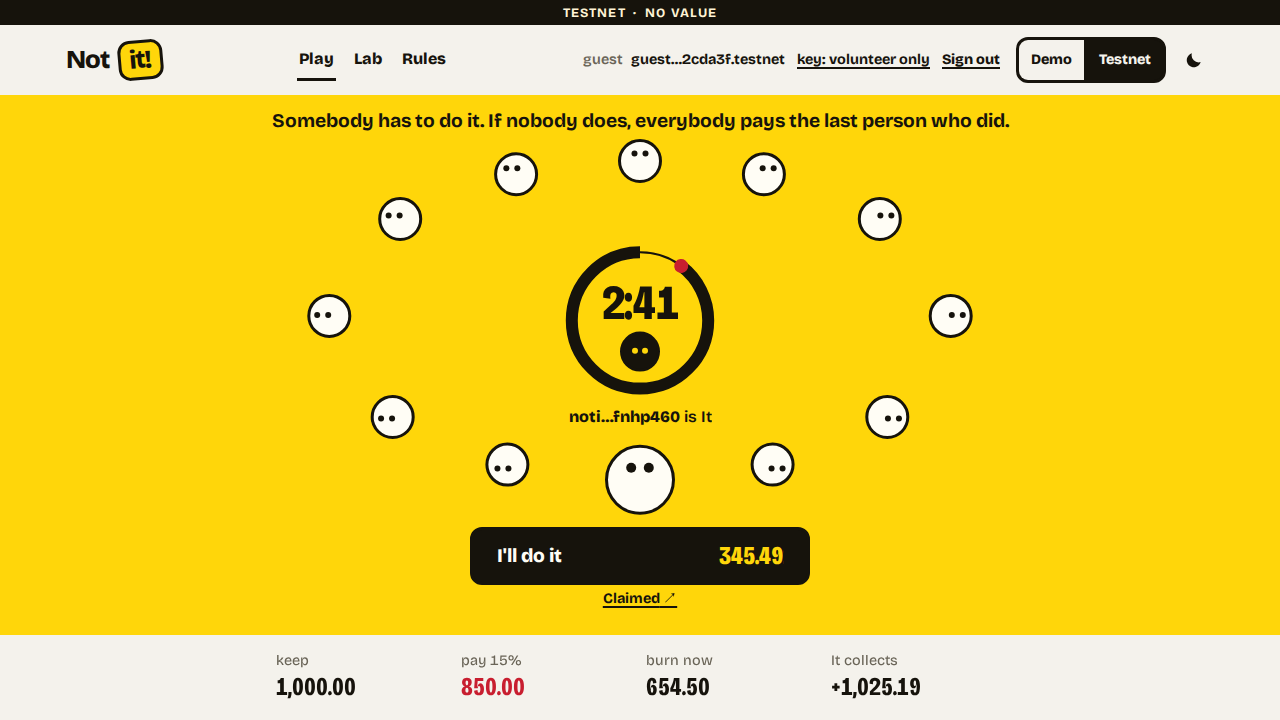
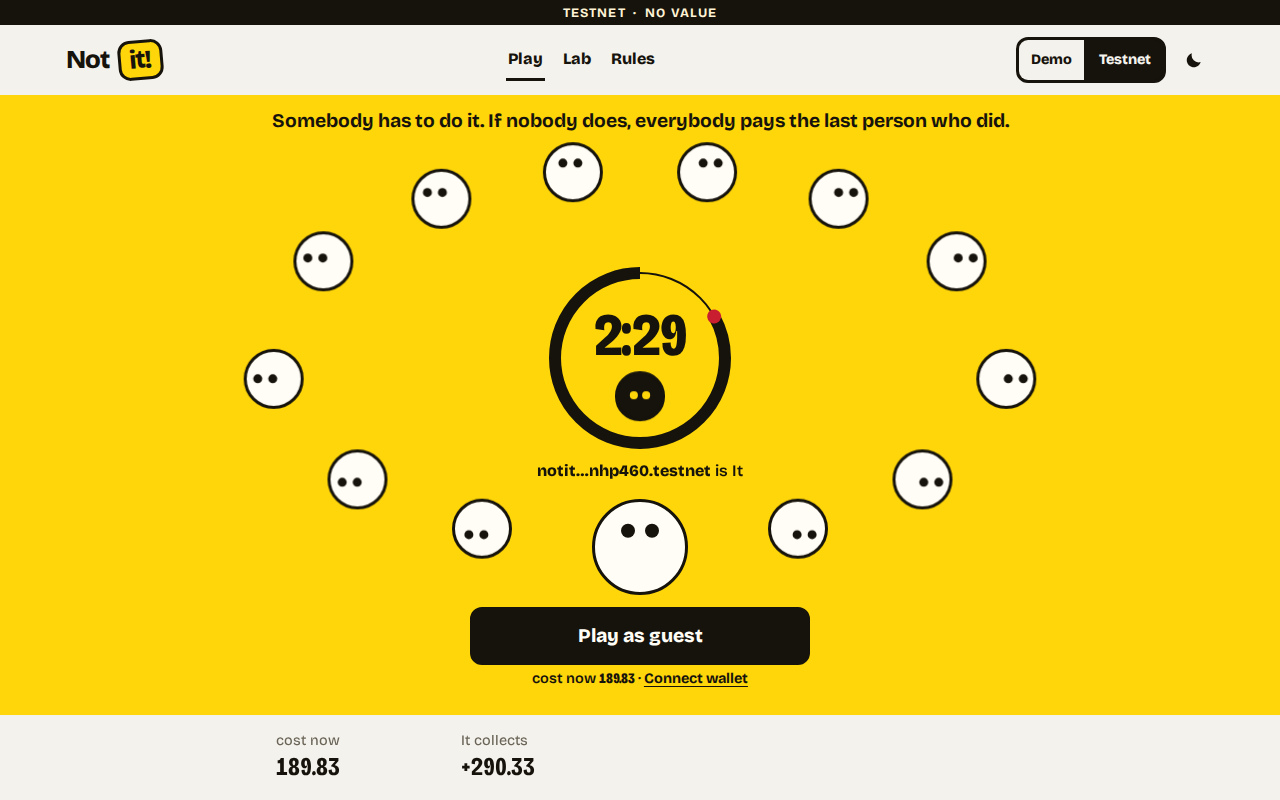
Final pass: say who did the reviews, correct the write-up's numbers, show the cost to visitors
Claude-Session: https://claude.ai/code/session_01VbKCMfDAzkPAio4xTphiFG

diff --git a/web/src/components/play/Scene.tsx b/web/src/components/play/Scene.tsx
@@ -323,7 +323,7 @@ function spokenStatus(snap: GameSnapshot, live: Live, scale: number): string {
 
 
 /** Testnet with nobody signed in: one click to play as a guest, or a wallet. */
-function SignIn({ chain, claimAmount, onUseDemo }: { chain: ChainUi; claimAmount: bigint; onUseDemo(): void }) {
+function SignIn({ chain, claimAmount, cost, onUseDemo }: { chain: ChainUi; claimAmount: bigint; cost: string | null; onUseDemo(): void }) {
   const { session, state } = chain;
   const { guest, wallet, restoring } = state;
   const running = guest.status === 'running';
@@ -384,7 +384,15 @@ function SignIn({ chain, claimAmount, onUseDemo }: { chain: ChainUi; claimAmount
             {wallet.error} {connect('Try again')}
           </span>
         ) : (
-          connect(wallet.busy ? 'Opening wallets…' : 'Connect wallet')
+          // Before anyone signs in: what volunteering costs right now, and the other way in.
+          <>
+            {cost !== null && (
+              <span className="act__now">
+                cost now <Digits text={cost} /> ·{' '}
+              </span>
+            )}
+            {connect(wallet.busy ? 'Opening wallets…' : 'Connect wallet')}
+          </>
         )}
       </div>
     </>
@@ -457,7 +465,7 @@ function Act({ game, snap, chain, flash, scale, onUseDemo }: { game: Game; snap:
         {spoken}
       </p>
       {signUp && chain ? (
-        <SignIn chain={chain} claimAmount={config.claimAmount} onUseDemo={onUseDemo} />
+        <SignIn chain={chain} claimAmount={config.claimAmount} cost={!s.saved && s.roundSupply > 0n ? amount(live.cost) : null} onUseDemo={onUseDemo} />
       ) : (
         <>
           <button
@@ -834,7 +842,7 @@ export function Figures({ snap, flash }: { snap: GameSnapshot; flash: RoundClose
   // What the round that just closed did to this balance: a cut, or a payment to It.
   const delta = paid && flash.balanceBefore !== null && flash.balanceAfter !== null ? flash.balanceAfter - flash.balanceBefore : 0n;
 
-  const figs: Fig[] = [
+  const withBalance: Fig[] = [
     {
       key: 'keep',
       label: 'keep',
@@ -873,6 +881,18 @@ export function Figures({ snap, flash }: { snap: GameSnapshot; flash: RoundClose
       title: `You do it now: ${of} after burning the cost`,
     },
   ];
+  // With nothing held yet (signed out, or before a claim) the row leads with the number the whole
+  // game turns on: what it costs to volunteer right now, from the same tick as the button's.
+  const figs: Fig[] = hasTokens
+    ? withBalance
+    : [
+        {
+          key: 'cost',
+          label: 'cost now',
+          value: open ? <Digits text={amount(live.cost)} /> : '—',
+          title: 'What volunteering costs right now; it falls until the round ends',
+        },
+      ];
   if (s.it && s.it !== me) {
     const gain = itAccount ? itCollects(s.totalSupply, itAccount.balance, config.cutPpm) : 0n;
     figs.push(
@@ -888,7 +908,7 @@ export function Figures({ snap, flash }: { snap: GameSnapshot; flash: RoundClose
   }
 
   return (
-    <dl className="figs" aria-label={`What each ending of this round does to ${of}`}>
+    <dl className="figs" aria-label={hasTokens ? `What each ending of this round does to ${of}` : 'What volunteering costs right now, and what It collects if nobody does'}>
       {figs.map((f) => (
         <div key={f.key} className={cls('figs__item', f.tone && `figs__item--${f.tone}`)} title={f.title}>
           <dt>{f.label}</dt>

diff --git a/web/index.html b/web/index.html
@@ -8,13 +8,13 @@
     <title>Not It — somebody has to do it</title>
     <meta
       name="description"
-      content="Not It ($NOTIT): a volunteer's-dilemma token on NEAR testnet. Somebody has to do it. If nobody does, everybody pays the last person who did. Test tokens, no value."
+      content="Somebody has to do it. If nobody does, everybody pays the last person who did. A memecoin on NEAR testnet whose only mechanic is a recurring auction for one seat."
     />
     <link rel="canonical" href="https://arshiaxbt.github.io/notit/" />
     <meta property="og:type" content="website" />
     <meta property="og:site_name" content="Not It" />
     <meta property="og:title" content="Not It — somebody has to do it" />
-    <meta property="og:description" content="If nobody does, everybody pays the last person who did. A volunteer's-dilemma token on NEAR testnet. Test tokens, no value." />
+    <meta property="og:description" content="Somebody has to do it. If nobody does, everybody pays the last person who did. A memecoin on NEAR testnet whose only mechanic is a recurring auction for one seat." />
     <meta property="og:url" content="https://arshiaxbt.github.io/notit/" />
     <meta property="og:image" content="https://arshiaxbt.github.io/notit/og.png" />
     <meta property="og:image:width" content="1200" />
@@ -23,7 +23,7 @@
     <meta name="twitter:card" content="summary_large_image" />
     <meta name="twitter:creator" content="@0xarshia" />
     <meta name="twitter:title" content="Not It — somebody has to do it" />
-    <meta name="twitter:description" content="If nobody does, everybody pays the last person who did. A volunteer's-dilemma token on NEAR testnet. Test tokens, no value." />
+    <meta name="twitter:description" content="Somebody has to do it. If nobody does, everybody pays the last person who did. A memecoin on NEAR testnet whose only mechanic is a recurring auction for one seat." />
     <meta name="twitter:image" content="https://arshiaxbt.github.io/notit/og.png" />
     <link rel="icon" type="image/svg+xml" href="./favicon.svg" />
     <link rel="apple-touch-icon" href="./apple-touch-icon.png" />

diff --git a/web/src/components/play/Rounds.tsx b/web/src/components/play/Rounds.tsx
@@ -74,6 +74,7 @@ export function RoundStrip({ snap }: { snap: GameSnapshot }) {
       title={<RoundLabel round={s.round} />}
       aside={
         <ul className="legend" aria-label="Legend">
+          <li className="legend__scope">last {cells.length} rounds</li>
           <li>
             <span className="legend__swatch legend__swatch--saved" aria-hidden="true" /> Saved <b>{saved}</b>
           </li>

diff --git a/web/src/styles/scene.css b/web/src/styles/scene.css
@@ -445,6 +445,10 @@
   text-align: center;
   translate: -50% 0;
 }
+.act__now .digits {
+  font-weight: 800;
+  font-stretch: 75%;
+}
 .act__say {
   display: block;
   text-wrap: balance;

diff --git a/web/src/styles/app.css b/web/src/styles/app.css
@@ -1781,3 +1781,6 @@
   min-width: 0;
   max-width: 100%;
 }
+.legend__scope {
+  color: var(--muted);
+}

diff --git a/contract/src/fuzz.rs b/contract/src/fuzz.rs
@@ -1,4 +1,4 @@
-//! Randomised invariant test, written by the independent reviewer during the pre-lock audit.
+//! Randomised invariant test, written by a separate AI review session during the pre-lock code review.
 //!
 //! Random legal operations (claim, volunteer, transfer, transfer-and-call with mocked
 //! receiver replies, forced unregister, register, poke) at random times, over several
@@ -318,7 +318,7 @@ fn random_operations_keep_the_invariants() {
         (150_000, 10u128.pow(31), 10, 1, 1),
         (1, 7, 100_000, 1, 999_999),
     ];
-    // Defaults keep `cargo test` quick. The pre-lock audit ran
+    // Defaults keep `cargo test` quick. The pre-lock review ran
     // NOTIT_FUZZ_SEEDS=40 NOTIT_FUZZ_STEPS=700 (and longer) over the same parameter sets.
     let seeds: u64 = std::env::var("NOTIT_FUZZ_SEEDS")
         .ok()

diff --git a/README.md b/README.md
@@ -2,7 +2,7 @@
 
 [![CI](https://github.com/arshiaxbt/notit/actions/workflows/ci.yml/badge.svg)](https://github.com/arshiaxbt/notit/actions/workflows/ci.yml)
 
-A memecoin whose only mechanic is a volunteer's dilemma with real stakes, on NEAR.
+A memecoin whose only mechanic is a recurring auction for one seat, "It": a volunteer's dilemma for large holders, a last-mover contest for everyone else. On NEAR testnet.
 
 **Somebody has to do it. If nobody does, everybody pays the last person who did.**
 
@@ -15,7 +15,7 @@ A 70-second recording of one real session on testnet (claim, volunteer, a round 
 | Hackathon | Built at NEAR HACKATHON (development phase 1–14 November 2026). Track: `memecoins` (Memecoins With Mechanics) |
 | Live demo | https://arshiaxbt.github.io/notit/ |
 | Contracts (NEAR testnet) | `notit-play.testnet` (3-minute rounds), `notit-live.testnet` (1-hour rounds). Both locked: no access keys |
-| Status | Testnet only. Test tokens with no value. Not audited |
+| Status | Testnet only. Test tokens with no value. No human or professional audit (see "How correctness is checked") |
 
 ## What it is
 
@@ -37,9 +37,9 @@ Not It is built so that every event is a real transfer of ownership. A save move
 
 - **Rules nobody can change.** A NEAR account with no access keys cannot be redeployed or administered. Both deployments were locked by deleting every key (`scripts/lock.sh`); step 4 below shows how to check.
 - **Standards.** NEP-141 token, NEP-145 storage management, NEP-148 metadata, NEP-297 events, so wallets and explorers read it without custom code.
-- **Cheap, fast finality.** A round is decided in its last seconds; one-second blocks and negligible fees make a three-minute round playable.
+- **Cheap, fast finality.** A round is decided in its last seconds; blocks of about 0.6 seconds and negligible fees make a three-minute round playable.
 - **One-click play with a key that can only volunteer.** The web app creates a faucet-funded testnet account in the browser, claims, and then replaces the account's full-access key with function-call access keys limited to `volunteer` and `poke` on the two game contracts (one transaction: add two keys, delete the full one). `volunteer` takes no deposit precisely so that such a key can play. Wallet login uses NEAR Connect.
-- **Named accounts.** It, the volunteers and the bots are readable account names on the hero wall.
+- **Named accounts.** It, the volunteers and the bots are readable account names in the volunteer table.
 - **NEAR Sandbox** runs the compiled contract in the integration test.
 
 | NEAR feature | Where it is used | How to check |
@@ -96,7 +96,7 @@ You should see `pass 52` and `fail 0`.
 
 ### 3. Run the contract tests
 
-Needs Rust (`rustup`; the pinned toolchain in `contract/rust-toolchain.toml` installs itself) and `cargo-near`. A cold build takes about 5 minutes and about 1 GB of disk:
+Needs Rust (`rustup`; the pinned toolchain in `contract/rust-toolchain.toml` installs itself) and `cargo-near`. A cold build takes about 5 minutes and about 1.6 GB of disk:
 
 ```sh
 curl --proto '=https' --tlsv1.2 -LsSf https://github.com/near/cargo-near/releases/download/cargo-near-v0.23.0/cargo-near-installer.sh | sh
@@ -107,6 +107,8 @@ cargo test
 You should see `test result: ok. 43 passed` for the unit tests (they include `contract_matches_the_typescript_engine_on_generated_scenarios` and `random_operations_keep_the_invariants`, which take a minute or two each), and then `test result: ok. 1 passed` for the integration test `full_game_loop_on_sandbox`. The integration test builds the WebAssembly contract and plays a full game on a local NEAR Sandbox node (first run downloads the sandbox binary).
 
 ### 4. Read the live contract
+
+From the repository root (`cd ..` if you are still in `contract/`).
 
 No account needed:
 
@@ -142,7 +144,7 @@ You should see `"link":"https://github.com/arshiaxbt/notit"`.
 
 Open https://arshiaxbt.github.io/notit/.
 
-1. The page opens in Testnet mode on the live round. You should see the holders as faces on a ring, all looking away; a clock ring burning down in the middle; and It, the dark face inside it. The cost is on the button and falls every second.
+1. The page opens in Testnet mode on the live round. You should see the holders as faces on a ring, all looking away; a clock ring burning down in the middle; and It, the dark face inside it. The cost to volunteer falls every second: it is shown as "cost now" under the button, and on the button itself once you are signed in.
 2. Press **Play as guest**. In about fifteen seconds you should see five steps go by (a new testnet account, a claim of 1,000 NOTIT on each deployment, "Locking the key"), then your balance and the words **key: volunteer only** by your account. From then on the key in your browser can only call `volunteer` and `poke` on the two game contracts. If the public faucet is busy, the page says so and offers the demo.
 3. Press **I'll do it**. You should see "Sending", then your face move to the middle of the ring: you are It.
 4. Do nothing for a round. If nobody else volunteers, you should see the ring flash red, a coin travel from every face to yours, and "paid to It" rise by 15 % of everyone else's balance.
@@ -196,11 +198,13 @@ Open the printed URL. You should see the same app.
 | Round length | 3 minutes | 1 hour |
 | Parameters | cost 5 % → 0.2 % of supply, cut 15 %, at most 8 charged rounds in a row, claim 1,000 NOTIT | same |
 | Funded for storage | 14 NEAR | 9.5 NEAR |
+| Storage runway | about 7,700 more saved rounds: at least 16 days even if every round were saved | about 4,800: more than six months |
+| Faucet | 1,000 NOTIT once per account, at most 100,000 claims; registering an account costs a 0.005 NEAR storage fee | same |
[1 lines of base64/hex data omitted]
 
 The contract pays for its own history records (see Limits). Anybody can send either account NEAR to extend that. The deployed WebAssembly is committed as [`contract/deployed/notit.wasm`](contract/deployed/notit.wasm): `sha256sum contract/deployed/notit.wasm` prints the hash above, and the `view_account` RPC query returns the same hash as `code_hash` for both accounts. A local rebuild can differ in a few bytes, because file paths and line numbers are part of the compiled code and the build is only bit-for-bit reproducible inside the cargo-near Docker image.
 
-A small fleet of bots (`bots/`) plays both deployments so that rounds are sometimes saved and sometimes not. The bots share one operator; when one of them ends up holding most of the fleet's tokens it sends some back to the others, so the demonstration does not stall (see `bots/README.md`).
+A small fleet of bots (`bots/`) plays both deployments so that rounds are sometimes saved and sometimes not. The bots share one operator; when one of them ends up holding most of the fleet's tokens it sends some back to the others, so the demonstration does not stall (see `bots/README.md`). They run from the author's server; `.github/workflows/bots.yml` is a backup that needs the fleet's testnet keys as repository secrets and has not been switched on.
 
 ## Repository layout
 
@@ -221,7 +225,7 @@ A small fleet of bots (`bots/`) plays both deployments so that rounds are someti
 - **Two independent implementations.** The contract and the TypeScript engine were written separately from docs/SPEC.md. A generator in the engine produces 42 scenarios (2,075 steps: claims, volunteers, transfers, unregistrations, long idle gaps, refused actions). A contract test replays them and requires the stored state to match integer for integer.
 - **Unit tests** for each rule in the specification, on both sides.
 - **Integration test** on NEAR Sandbox with the compiled contract.
-- **Independent reviews.** Before the contract was written, the design was reviewed as a mechanism; that review found that the first version's uniform cut was economically neutral, which led to the current rules. The rules as deployed were then reviewed again by a game theorist, who found that the lab's first bystander formula was the textbook one (every volunteer pays) and not the equilibrium of our rule (only the first pays), and that two claims in the write-up were wrong; the lab and docs/MECHANISM.md were corrected, and the corrections are marked there. Before the contract was locked, a separate adversarial code review fuzzed it and exercised it on a sandbox node; it found no way to block the contract or to create or take tokens, and its smaller findings were fixed or are listed as limits. Its fuzz test is in the repository (`contract/src/fuzz.rs`): random operations over 7 parameter sets, including extreme ones and transfer-and-call refunds, with invariants checked after every step. `cargo test` runs a quick version; the audit ran `NOTIT_FUZZ_SEEDS=40 NOTIT_FUZZ_STEPS=700`.
+- **Reviews, and who did them.** All reviews were done by separate Claude sessions that were given the specification or the code but not the reasoning of the session that wrote it; there was no human or professional audit. (1) Before the contract was written, the design was reviewed as a mechanism; that review found that the first version's uniform cut was economically neutral, which led to the current rules. (2) Before the contract was locked, an adversarial code review fuzzed it and exercised it on a sandbox node; it found no way to block the contract or to create or take tokens, and its smaller findings were fixed or are listed as limits. Its fuzz test is in the repository (`contract/src/fuzz.rs`): random operations over 7 parameter sets, including extreme ones and transfer-and-call refunds, with invariants checked after every step. `cargo test` runs a quick version; the review ran `NOTIT_FUZZ_SEEDS=40 NOTIT_FUZZ_STEPS=700`. (3) The rules as deployed were reviewed as a game; that review found that the lab's first bystander formula was the textbook one (every volunteer pays) and not the equilibrium of our rule (only the first pays), and that two claims in the write-up were wrong. The lab and docs/MECHANISM.md were corrected, and the corrections are marked there. (4) The web app was tested by a separate QA session across ten screen sizes, two themes and two browsers.
 - **CI** runs all of the above and checks that the lab output is reproducible (`.github/workflows/ci.yml`).
 
 ## Limits
@@ -229,7 +233,7 @@ A small fleet of bots (`bots/`) plays both deployments so that rounds are someti
 - Testnet only; the tokens have no value. Nothing here is financial advice.
 - The faucet claim has no sybil resistance.
 - A guest account whose key has been locked can never do anything but volunteer: it cannot move its NEAR or tokens, or add a key. It is a throwaway testnet account by design.
-- Not audited. Known weaknesses are listed in [docs/MECHANISM.md](docs/MECHANISM.md#limits-and-known-weaknesses).
+- No human or professional audit; the reviews were done by AI reviewer sessions. Known weaknesses are listed in [docs/MECHANISM.md](docs/MECHANISM.md#limits).
 - The lab simulates scripted strategies. It shows what the rules imply for those strategies, not how people behave.
 
 ## Hackathon disclosures

diff --git a/docs/MECHANISM.md b/docs/MECHANISM.md
@@ -2,7 +2,7 @@
 
 **What it is, in one sentence:** a recurring Dutch auction for a seat ("It") that collects 15 % from every other holder whenever a round finds no bidder. For large holders it is a volunteer's dilemma; for everyone else it is a last-mover contest in the family of Fomo3D, with a falling entry price and a levy on holders in place of a pot. It is zero-sum in ownership, and close to zero expected value under competitive play.
 
-This page states the rules, shows why the stakes are not an accounting illusion, works out what rational holders do, and lists the objections we know of. It was reviewed twice by independent reviewers: once before the contract was written, and once against the rules as deployed. The second review corrected several claims that an earlier version of this page got wrong; the corrections are marked. The normative rules are in [SPEC.md](SPEC.md); the code is in [`contract/src/lib.rs`](../contract/src/lib.rs).
+This page states the rules, shows why the stakes are not an accounting illusion, works out what rational holders do, and lists the objections we know of. It was reviewed twice as a mechanism, both times by a separate Claude session that had the rules but not the reasoning behind them (there was no human review): once before the contract was written, and once against the rules as deployed. The second review corrected several claims that an earlier version of this page got wrong; the corrections are marked. The normative rules are in [SPEC.md](SPEC.md); the code is in [`contract/src/lib.rs`](../contract/src/lib.rs).
 
 ## Rules
 
@@ -89,7 +89,7 @@ Two consequences:
 `npm run lab` runs the real rules with scripted strategies (output in [lab-output.txt](lab-output.txt)):
 
 - **A. Bystander effect.** With identical holders deciding in the final block and playing the equilibrium probability, the simulated share of unsaved rounds follows the first-pays equilibrium: 0.3 % with 3 holders, 3.7 % with 10, 20 % with 30, 67 % with 60, and 100 % from 75 up. The table prints the textbook figure (every volunteer pays) beside it for comparison.
-- **B. Large holders present.** With 50 holders and Pareto-distributed balances (almost all above the threshold), no round ever fails. The five largest holders pay 54 % of all burns and their share of the supply falls from 45 % to 10 %.
+- **B. Large holders present.** With 50 holders and Pareto-distributed balances (18 of the 50 above the threshold), no round ever fails. The five largest holders pay 54 % of all burns and their share of the supply falls from 45 % to 10 %.
 - **B2. A dispersed crowd.** With 100 equal holders at 1 % each, holders who only look one round ahead never volunteer: It collects for 8 rounds, ends with 73 % of the supply, and the game sleeps. Holders who value being It save 99 % of rounds, but burn 88 % of the supply competing for it.
 - **C. Idle holders.** With 30 holders who never act among 40, the idle holders' share of the supply goes from 75 % to 0 %.
 - **D. Forward-looking holders.** The bound above is 1.32 % with the deployed parameters. A scripted strategy that values the seat from the last 20 rounds stays within it at 20, 50 and 100 equal holders (0 %, 0 %, 1.0 % unsaved) and exceeds it at 200 (4.0 %), because its short memory lets a round fail every twenty-odd rounds; the table says so. The symmetric equilibrium in A is also not the only one: there are asymmetric ones in which one designated holder always volunteers and no round fails.
@@ -102,7 +102,8 @@ Two consequences:
 | Cost at round open | 5 % of supply | Caps what one round can charge for the seat. A defender of any size waits anyway, because the price only falls |
 | Cost at the deadline | 0.2 % of supply | Sets the one-round threshold at 1.33 % of supply, and the competitive failure rate at about 1.3 % |
 | Charged rounds in a row | 8 | Bounds what an unattended game can take from idle holders while It is absent: at most 1 − 0.85^8 = 73 % |
-| Faucet claim | 1,000 NOTIT, once per account | A newcomer can afford the floor price while the supply is under 500,000 NOTIT |
+| Faucet claim | 1,000 NOTIT, once per account, at most 100,000 claims | A newcomer can afford the floor price while the supply is under 500,000 NOTIT |
+| Storage fee | 0.005 NEAR per registered account | Pays for the account record and the records that outlive it; half is returned on unregistering |
 
 ## Objections we know of
 
@@ -120,6 +121,6 @@ Two consequences:
 - **Function-call keys can burn.** `volunteer` needs no deposit, so a function-call key for this contract can burn up to 5 % of the supply from the holder's balance per round. This is deliberate: it is what lets a guest's browser hold a key that can only volunteer. `ft_transfer` still requires 1 yoctoNEAR, so such a key cannot move tokens to somebody else.
 - **Block timestamps.** Rounds are measured with the block timestamp, which block producers set once per block. "Seconds left" is therefore accurate to about one block.
 - **Indexers.** An unsaved round changes every balance through one index update and is reported by a single `rounds_closed` event, not by a transfer event per holder. An indexer that only replays NEP-141 transfer events will drift from `ft_balance_of`.
-- **Storage.** The contract pays for the history and volunteer records from its own balance: about 0.0015 NEAR per saved round and 0.0022 NEAR per new volunteer. If the balance runs out, calls that add a record fail until somebody sends the account NEAR, which anybody can do. The deployments were funded before they were locked (amounts in the README).
+- **Storage.** The contract pays for the history and volunteer records from its own balance: about 0.0015 NEAR per saved round and 0.0022 NEAR per new volunteer. If the balance runs out, calls that add a record fail until somebody sends the account NEAR, which anybody can do. The deployments were funded before they were locked; the README gives the amounts and how long they last.
 - **What the lab does not show.** It uses scripted strategies. It shows what the rules imply for those strategies, not how people behave. The forward-looking result is derived by hand and compared with one family of scripted strategies; it is not a proof for all strategies.
 - **Rule changes we considered and did not make.** A higher opening price (15 %) would widen the range in which the save time is a price. Barring It from volunteering would not stop re-arming, because a second account does the same job. A random winner among same-block volunteers would blunt the speed advantage but is untested code. The deployed rules are locked.

diff --git a/engine/NOTES.md b/engine/NOTES.md
@@ -56,7 +56,7 @@ These are not engine bugs; they are properties of the rules that surprised me wh
 ## 5. Lab experiments
 
 - **A. Bystander effect.** For each N there are N players with 1,000 NOTIT each, all `mixedFinalBlock`, plus one extra account that also started with 1,000 NOTIT, became It in the setup round and never volunteers again. Every trial is one armed round on a fresh engine (`resetEachRound`), so the players are exactly equal in every trial. `q = c / (cut × x)` uses the players' actual balance `x` and the actual final-slot cost `c` read from the engine.
-  - **Which equilibrium.** The textbook volunteer's dilemma (`p = 1 − q^(1/(n−1))`, `P(fail) = q^(n/(n−1))`, also what SPEC §11 prints) assumes every volunteer pays. Under the deployed rule only the first volunteer pays; later calls fail with `ERR_ALREADY_SAVED` and burn nothing. A submitter therefore pays with probability `E[1/(K+1)]`, `K ~ Binomial(n−1, p)`, which is `(1 − (1−p)^n) / (n·p)`, and the indifference condition is `q × (1 − (1−p)^n) / (n·p) = (1−p)^(n−1)`, with `P(fail) = (1−p)^n`. `firstPaysEquilibrium(n, q)` solves it; `classicDilemma(n, q)` keeps the textbook formula for the comparison column. Holders volunteer more readily than in the textbook case: at 10 players the round fails 3.6 % of the time, not 11.8 %.
+  - **Which equilibrium.** The textbook volunteer's dilemma (`p = 1 − q^(1/(n−1))`, `P(fail) = q^(n/(n−1))`, which SPEC §11 prints beside the first-pays condition) assumes every volunteer pays. Under the deployed rule only the first volunteer pays; later calls fail with `ERR_ALREADY_SAVED` and burn nothing. A submitter therefore pays with probability `E[1/(K+1)]`, `K ~ Binomial(n−1, p)`, which is `(1 − (1−p)^n) / (n·p)`, and the indifference condition is `q × (1 − (1−p)^n) / (n·p) = (1−p)^(n−1)`, with `P(fail) = (1−p)^n`. `firstPaysEquilibrium(n, q)` solves it; `classicDilemma(n, q)` keeps the textbook formula for the comparison column. Holders volunteer more readily than in the textbook case: at 10 players the round fails 3.6 % of the time, not 11.8 %.
   - **Uniqueness and the solver.** Rewritten as `h(p) = n / Σ_{k<n} (1−p)^(−k) = q`, the left side falls strictly from 1 to 0 on (0, 1), so for `0 < q < 1` and `n ≥ 2` the symmetric equilibrium is unique and bisection is safe. `q ≥ 1` gives `p = 0` (nobody volunteers; N = 75 and 100 in the table). A lone holder (`n = 1`) always pays when it submits and volunteers for sure when `q < 1`. `h` is evaluated with `log1p` / `expm1`, since `1 − (1−p)^n` loses all precision when `q` is close to 1 and `p` is tiny. The symmetric equilibrium is not the only one: there are also `n` asymmetric equilibria in which one designated holder always volunteers and nobody else does (the round never fails). The table is about the symmetric one.
   - **What the agreement shows.** The simulated players draw from the equilibrium probability, so "simulated ≈ equilibrium" checks the arithmetic, the random order and the engine. It says nothing about whether people behave this way.
   - `mixedEquilibriumP(q, n)` and `mixedEquilibriumFailure(q, n)` now return the first-pays values (they returned the textbook ones before); `BystanderRow.p` and `.theory` likewise, next to the explicit `equilibriumP`, `equilibriumFail`, `classicP`, `classicFail`.

diff --git a/docs/SPEC.md b/docs/SPEC.md
@@ -9,7 +9,7 @@ This file is the single source of truth for the contract (`contract/`, Rust), th
 1. Time is split into rounds.
 2. In each round the **sacrifice cost** starts high and falls linearly until the deadline.
 3. The first holder to **volunteer** in a round burns the current cost from their own balance. The round is **saved** and that holder becomes **It** — the last person who did it.
-4. If a round ends unsaved, every balance is cut and the whole cut is paid to It. At most `MAX_COLLAPSE_RUN` unsaved rounds in a row are charged; after that the game is **dormant** until somebody volunteers again. Before the first volunteer ever there is no It and nothing is charged.
+4. If a round ends unsaved, every balance is cut and the whole cut is paid to It. At most `MAX_COLLAPSE_RUN` unsaved rounds in a row are charged; after that the game is **dormant** (the app says "asleep") until somebody volunteers again. Before the first volunteer ever there is no It and nothing is charged.
 5. Nobody can change the rules after deployment.
 
 Why the stakes are real: a save moves value from the volunteer to everyone (the burn); a collapse moves value from everyone to It. Neither is a uniform rebase.
@@ -54,7 +54,7 @@ Validation in `new` (`ERR_PARAMS`): `round_ns ≥ 10^9`; `0 < min_cost_ppm ≤ m
 | `collapse_run` | u32 | 0 |
 | `claimed` | set of accounts | empty (survives unregistration) |
 | `claims_made` | u32 | 0 |
-| `stats` | §7 | zero |
+| `stats` | §6 | zero |
 | `history` | list of entries, §7 | empty |
 | `heroes[a]` | `{ saves: u32, burned: u128, collected: u128 }` | absent (survives unregistration) |
 
